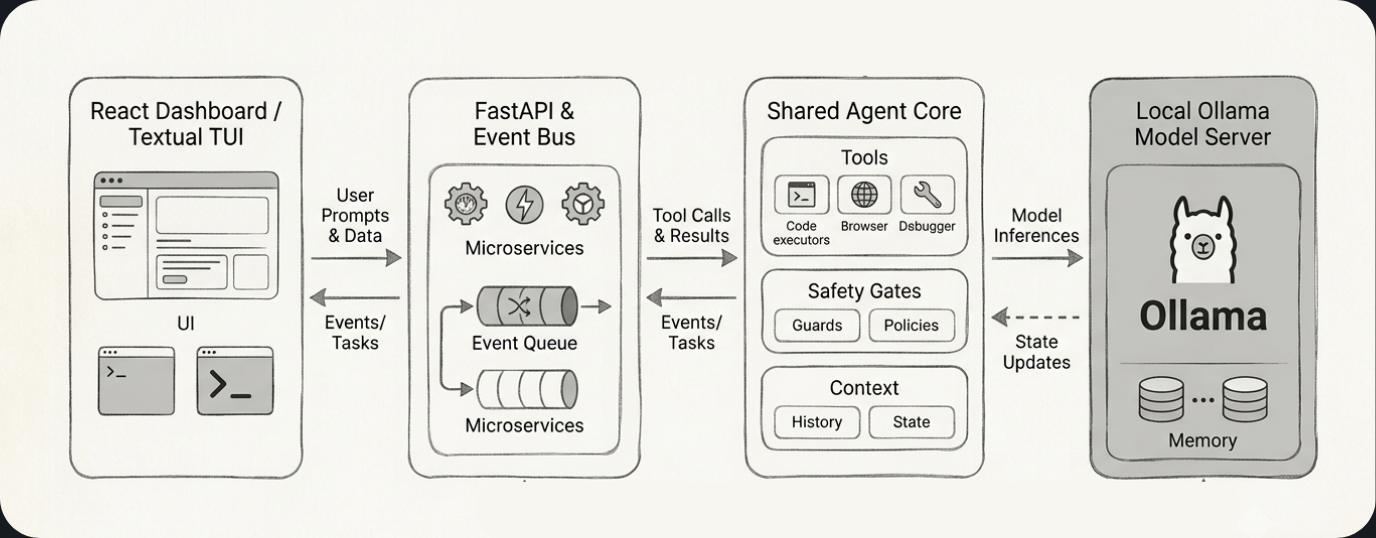
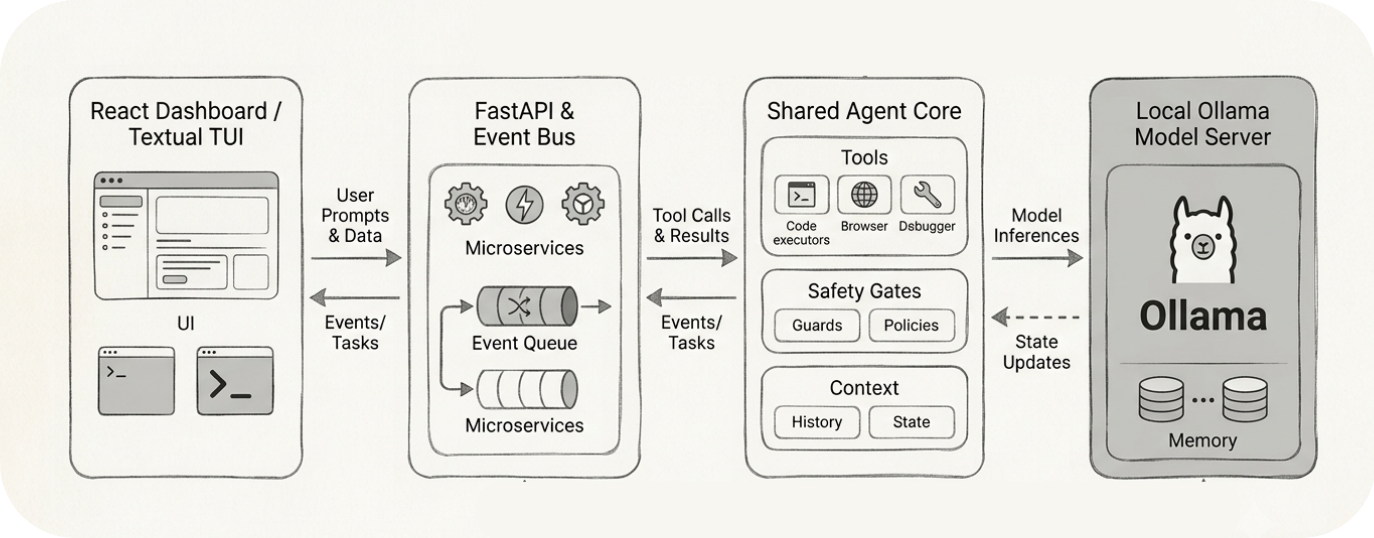
fix(lint): ignore E501 and organize import blocks

diff --git a/mini_coding_agent/tools.py b/mini_coding_agent/tools.py
@@ -1,10 +1,10 @@
 """Validated workspace tools and approval callback interface."""
 
+from collections.abc import Callable
 import json
+from pathlib import Path
 import shutil
 import subprocess
-from pathlib import Path
-from typing import Callable
 
 from .context import IGNORED_PATH_NAMES, clip
 
@@ -116,7 +116,7 @@ class ToolManager:
             return f"error: unknown tool '{name}'"
         try:
             self.validate(name, args)
-        except Exception as exc:
+        except Exception as exc:  # noqa: BLE001
             message = f"error: invalid arguments for {name}: {exc}"
             example = self.example(name)
             return message + (f"\nexample: {example}" if example else "")
@@ -130,7 +130,7 @@ class ToolManager:
             return result
         try:
             result = clip(tool["run"](args))
-        except Exception as exc:
+        except Exception as exc:  # noqa: BLE001
             result = f"error: tool {name} failed: {exc}"
         self.agent.emit("tool_completed", tool_name=name, args=args, success=not result.startswith("error:"), output_chars=len(result), step=step)
         return result
@@ -150,7 +150,7 @@ class ToolManager:
     def search(self, args):
         pattern, path = str(args.get("pattern", "")).strip(), self.path(args.get("path", "."))
         if shutil.which("rg"):
-            result = subprocess.run(["rg", "-n", "--smart-case", "--max-count", "200", pattern, str(path)], cwd=self.agent.root, capture_output=True, text=True)
+            result = subprocess.run(["rg", "-n", "--smart-case", "--max-count", "200", pattern, str(path)], cwd=self.agent.root, capture_output=True, text=True, check=False)
             return result.stdout.strip() or result.stderr.strip() or "(no matches)"
         matches = []
         files = [path] if path.is_file() else [item for item in path.rglob("*") if item.is_file() and not any(part in IGNORED_PATH_NAMES for part in item.relative_to(self.agent.root).parts)]
@@ -163,7 +163,7 @@ class ToolManager:
         return "\n".join(matches) or "(no matches)"
 
     def run_shell(self, args):
-        result = subprocess.run(str(args["command"]).strip(), cwd=self.agent.root, shell=True, capture_output=True, text=True, timeout=int(args.get("timeout", 20)))
+        result = subprocess.run(str(args["command"]).strip(), cwd=self.agent.root, shell=True, capture_output=True, text=True, timeout=int(args.get("timeout", 20)), check=False)
         return "\n".join([f"exit_code: {result.returncode}", "stdout:", result.stdout.strip() or "(empty)", "stderr:", result.stderr.strip() or "(empty)"])
 
     def write_file(self, args):

diff --git a/mini_coding_agent/agent.py b/mini_coding_agent/agent.py
@@ -3,7 +3,7 @@
 import json
 import re
 import uuid
-from datetime import datetime
+from datetime import datetime, timezone
 from pathlib import Path
 
 from .context import RepositoryContextService, clip, now
@@ -43,7 +43,7 @@ class MiniAgent:
         self._run_id = None
         self._tool_step = 0
         self.session = session or {
-            "id": datetime.now().strftime("%Y%m%d-%H%M%S") + "-" + uuid.uuid4().hex[:6],
+            "id": datetime.now(timezone.utc).strftime("%Y%m%d-%H%M%S") + "-" + uuid.uuid4().hex[:6],
             "created_at": now(),
             "workspace_root": workspace.repo_root,
             "history": [],
@@ -252,7 +252,7 @@ class MiniAgent:
         if "<tool>" in raw and ("<final>" not in raw or raw.find("<tool>") < raw.find("<final>")):
             try:
                 payload = json.loads(MiniAgent.extract(raw, "tool"))
-            except Exception:
+            except Exception:  # noqa: BLE001
                 return "retry", MiniAgent.retry_notice("model returned malformed tool JSON")
             if not isinstance(payload, dict):
                 return "retry", MiniAgent.retry_notice("tool payload must be a JSON object")
@@ -280,7 +280,7 @@ class MiniAgent:
 
     @staticmethod
     def parse_xml_tool(raw):
-        match = re.search(r"<tool(?P<attrs>[^>]*)>(?P<body>.*?)</tool>", raw, re.S)
+        match = re.search(r"<tool(?P<attrs>[^>]*)>(?P<body>.*?)</tool>", raw, re.DOTALL)
         if not match:
             return None
         attrs = MiniAgent.parse_attrs(match.group("attrs"))

diff --git a/mini_coding_agent/prompting.py b/mini_coding_agent/prompting.py
@@ -12,7 +12,7 @@ class PromptComposer:
             fields = ", ".join(f"{key}: {value}" for key, value in tool["schema"].items())
             risk = "approval required" if tool["risky"] else "safe"
             tool_lines.append(f"- {name}({fields}) [{risk}] {tool['description']}")
-        examples = "\n".join([
+        examples = "\n".join([  # noqa: FLY002
             '<tool>{"name":"list_files","args":{"path":"."}}</tool>',
             '<tool>{"name":"read_file","args":{"path":"README.md","start":1,"end":80}}</tool>',
             '<tool name="write_file" path="binary_search.py"><content>def binary_search(nums, target):\n    return -1\n</content></tool>',
@@ -20,7 +20,7 @@ class PromptComposer:
             '<tool>{"name":"run_shell","args":{"command":"uv run --with pytest python -m pytest -q","timeout":20}}</tool>',
             "<final>Done.</final>",
         ])
-        rules = "\n".join([
+        rules = "\n".join([  # noqa: FLY002
             "- Use tools instead of guessing about the workspace.",
             "- Return exactly one <tool>...</tool> or one <final>...</final>.",
             "- Tool calls must look like:", '  <tool>{"name":"tool_name","args":{...}}</tool>',

diff --git a/mini_coding_agent/context.py b/mini_coding_agent/context.py
@@ -1,11 +1,12 @@
 """Workspace discovery and small formatting helpers."""
 
+from datetime import datetime, timezone
 import hashlib
 import json
 import os
-import subprocess
-from datetime import datetime, timezone
 from pathlib import Path
+import subprocess
+
 
 
 DOC_NAMES = ("AGENTS.md", "README.md", "pyproject.toml", "package.json")
@@ -61,7 +62,7 @@ class WorkspaceContext:
                     ["git", *args], cwd=cwd, capture_output=True, text=True, check=True, timeout=5
                 )
                 return result.stdout.strip() or fallback
-            except Exception:
+            except Exception:  # noqa: BLE001
                 return fallback
 
         repo_root = Path(git(["rev-parse", "--show-toplevel"], str(cwd))).resolve()
@@ -149,7 +150,7 @@ class RepositoryContextService:
                 ["git", *args], cwd=self.root, capture_output=True, text=True, check=True, timeout=5
             )
             return result.stdout.strip() or fallback
-        except Exception:
+        except Exception:  # noqa: BLE001
             return fallback
 
     def _git_snapshot(self):

diff --git a/mini_coding_agent/cli.py b/mini_coding_agent/cli.py
@@ -1,9 +1,9 @@
 """Backward-compatible plain terminal command-line interface."""
 
 import argparse
+from pathlib import Path
 import shutil
 import sys
-from pathlib import Path
 
 from .agent import MiniAgent
 from .context import WorkspaceContext, middle
@@ -11,7 +11,7 @@ from .model import OllamaModelClient
 from .sessions import SessionStore
 
 
-HELP_DETAILS = "\n".join([
+HELP_DETAILS = "\n".join([  # noqa: FLY002
     "Commands:", "/help    Show this help message.", "/memory  Show the agent's distilled working memory.",
     "/session Show the path to the saved session file.", "/reset   Clear the current session history and memory.", "/exit    Exit the agent.",
     "/context Refresh and show the repository-context snapshot.",
@@ -100,7 +100,7 @@ def main(argv=None):
         try:
             user_input = input("\nmini-coding-agent> ").strip()
         except (EOFError, KeyboardInterrupt):
-            print("")
+            print()
             return 0
         if not user_input:
             continue

diff --git a/mini_coding_agent/events.py b/mini_coding_agent/events.py
@@ -1,7 +1,7 @@
 """Versioned, in-process lifecycle events for all user interfaces."""
 
+from collections.abc import Callable
 from dataclasses import asdict, dataclass
-from typing import Callable
 import uuid
 
 from .context import now

diff --git a/tests/test_mini_coding_agent.py b/tests/test_mini_coding_agent.py
@@ -1,7 +1,7 @@
 import json
-import pytest
 from unittest.mock import patch
 
+import pytest
 from mini_coding_agent import (
     FakeModelClient,
     MiniAgent,
